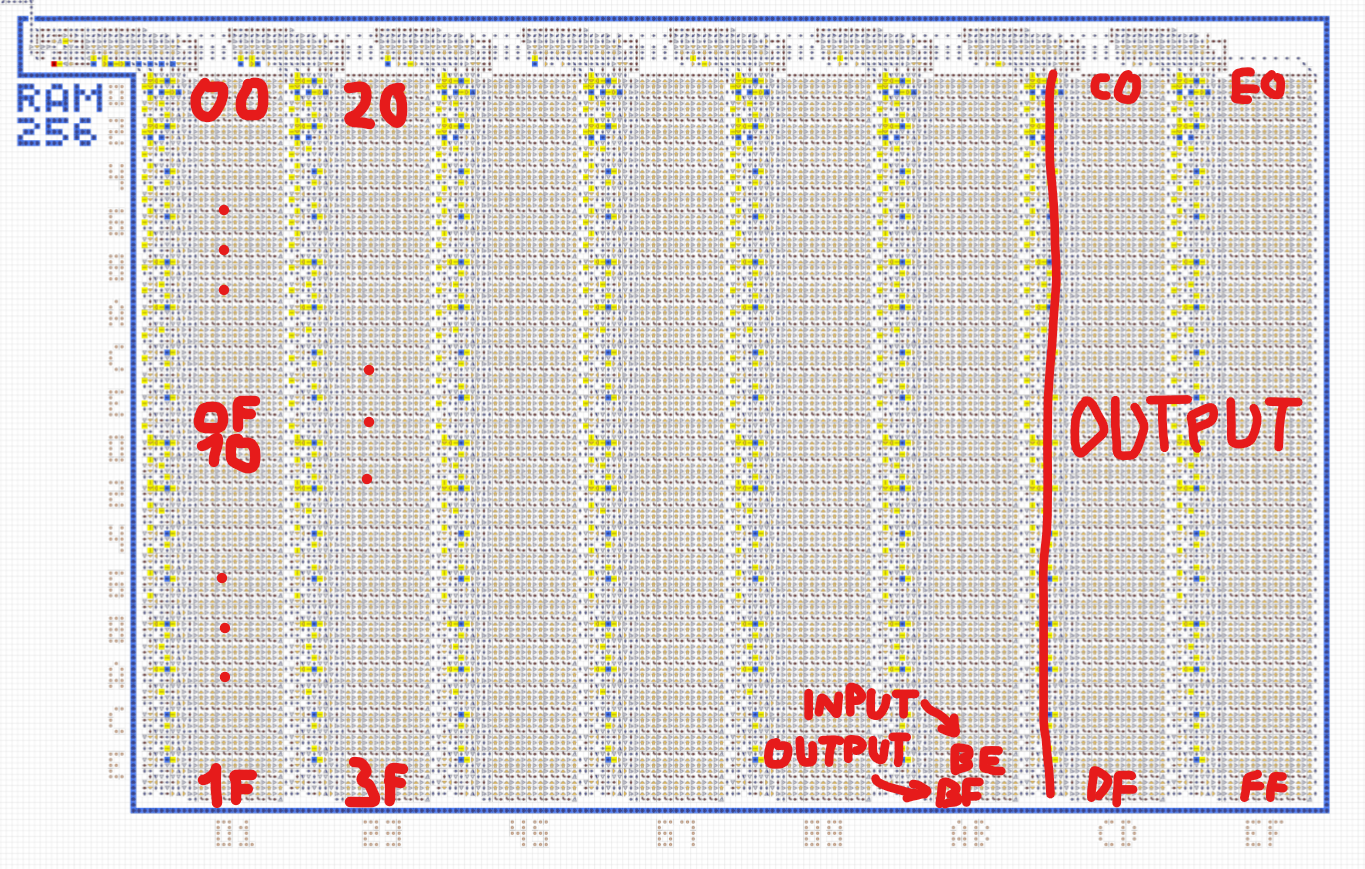
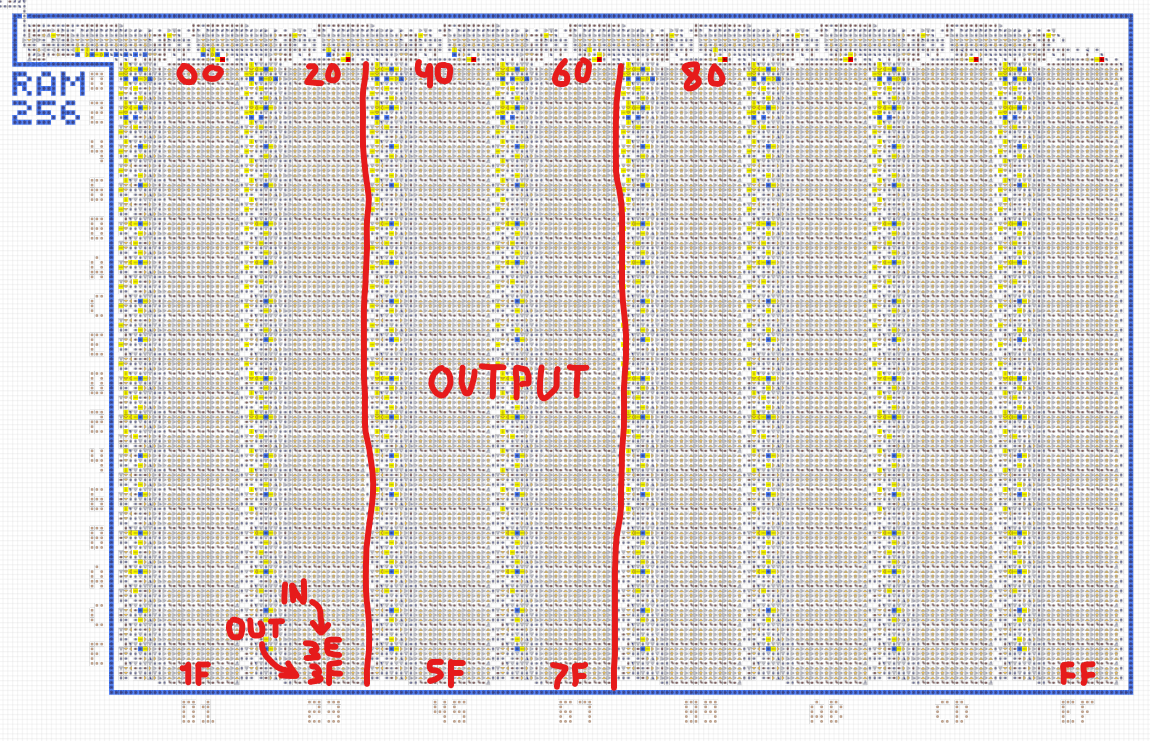
Computer: terminal & port changes

diff --git a/computer.md b/computer.md
@@ -49,31 +49,34 @@
 ## <a name="ram"></a>Оперативная память
 Единственной памятью компьютера является RAM на 256 байт. Единицей хранимой информации является 1 байт, адрес доступа к памяти также представляет собой 1 байт.
 
-Адрес `BE` подключён к системе ввода. По этому адресу всегда можно прочитать актуальную информацию, например, о нажатой клавише на клавиатуре. *(Система ввода в разработке.)*
+Адрес `3E` подключён к системе ввода. По этому адресу всегда можно прочитать актуальную информацию, например, о нажатой клавише на клавиатуре. *(Система ввода в разработке.)*
 
-Адрес `BF` подключён к управлению выводом. К примеру, если записать по этому адресу байт `80`, то вывод переключится на пиксельный дисплей.
+Адрес `3F` подключён к управлению выводом. К примеру, если записать по этому адресу байт `80`, то вывод переключится на пиксельный дисплей.
 
-Адреса `С0...FF` являются совмещённой видеопамятью. Запись по этим адресам может параллельно воздействовать на текущее средство вывода, в зависимости от его типа.
+Адреса `40...7F` являются совмещённой видеопамятью. Запись по этим адресам может параллельно воздействовать на текущее средство вывода, в зависимости от его типа.
 
 ![Оперативная память](img/computer-ram.png)
 <br><br><br>
 
 
 ## <a name="input"></a>Система ввода
-Представлена клавиатурой, где у каждой клавиши есть уникальный код. При нажатии на любую клавишу, её код попадает в RAM по адресу `BE`, откуда он в любой момент может быть прочитан программой. Если необходимо определить повторное нажатие на одну и ту же клавишу, то после определения первого нажатия программе следует самостоятельно в RAM сбросить значение адреса `BE`.
+Представлена клавиатурой, где у каждой клавиши есть уникальный код. При нажатии на любую клавишу, её код попадает в RAM по адресу `3E`, откуда он в любой момент может быть прочитан программой. Если необходимо определить повторное нажатие на одну и ту же клавишу, то после определения первого нажатия программе следует самостоятельно в RAM сбросить значение адреса `3E`.
 <br><br><br>
 
 
 ## <a name="output"></a>Система вывода
 
 ### Пиксельный дисплей
-Для переключения вывода на пиксельный дисплей необходимо в RAM по адресу `BF` записать байт `80`. Ниже показано адресное пространство дисплея. Запись в RAM по адресу из этого пространства будет приводить к появлению на дисплее пикселей, соответствующих записанным битам.
+Для переключения вывода на пиксельный дисплей необходимо в RAM по адресу `3F` записать байт `80`. Ниже показано адресное пространство дисплея. Запись в RAM по адресу из этого пространства будет приводить к появлению на дисплее пикселей, соответствующих записанным битам.
 
 ![Пиксельный дисплей](img/computer-display.png)
 <br>
 
-### Другие средства вывода
-*В разработке.*
+### Терминал
+Для переключения вывода на терминал необходимо в RAM по адресу `3F` записать байт `40`. Далее, каждый байт, записанный в RAM по адресу `40`, будет выводиться на терминал в виде символа в кодировке [cp1251](https://ru.wikipedia.org/wiki/Windows-1251), сдигая все предыдущие символы влево.
+
+![Пиксельный дисплей](img/computer-terminal.png)
+<br>
 <br><br><br>
 
 

diff --git a/computer-examples.md b/computer-examples.md
@@ -3,13 +3,13 @@
 # Примеры готовых программ
 
 ## Hello world
-Программа выводит на пиксельный дисплей котика и надпись «Hello world».
+Выводит на пиксельный дисплей котика и надпись «Hello world».
 ```asm
 ldi a, 0x80         ; выбираем режим для вывода
-st a, 0xBF          ; подключаем дисплей
+st a, 0x3F          ; подключаем дисплей
 ldi b, imagesize    ; счётчик, по которому программа завершится
 ldi c, image        ; указатель на начало картинки в памяти
-ldi d, 0xC0         ; указатель на начало области дисплея
+ldi d, 0x40         ; указатель на начало области дисплея
 loop:               ; цикл копирования картинки на дисплей
     ld a, c             ; читаем один байт картинки
     st a, d             ; выводим байт картинки на дисплей
@@ -42,12 +42,12 @@ imagesize equ $ - image          ; размер картинки
 <br><br>
 
 ## Поиск простых чисел
-Программа находит первые 16 простых чисел и выводит их на пиксельный дисплей в двоичном формате. Выполнение занимает 3691 операцию.
+Находит первые 16 простых чисел и выводит их на пиксельный дисплей в двоичном формате. Выполнение занимает 3691 операцию.
 ```asm
 ldi a, 0x80     ; выбираем режим для вывода
-st a, 0xBF      ; подключаем дисплей
+st a, 0x3F      ; подключаем дисплей
 ldi b, 0x02     ; первое простое число 2
-ldi d, 0xC1     ; адрес на дисплее для первого числа
+ldi d, 0x41     ; адрес на дисплее для первого числа
 st b, d         ; выводим число на дисплей
 inc b           ; второе простое число 3
 inc d           ; дважды смещаем указатель на дисплей, чтобы перейти на следующий ряд
@@ -56,7 +56,7 @@ st b, d         ; выводим число на дисплей
 next:           ; цикл подбора кандидатов на простые числа
   inc b             ; дважды увеличиваем число-кандидат – идём только по нечётным числам
   inc b
-  ldi d, 0xC1       ; устанавливаем указатель на первое простое число на дисплее
+  ldi d, 0x41       ; устанавливаем указатель на первое простое число на дисплее
 test:           ; цикл подбора множителей среди уже найденных простых чисел
   inc d             ; смещаем указатель на следующее простое число на дисплее
   inc d
@@ -78,9 +78,52 @@ prime:          ; работа с найденным простым числом
   inc d
   st d, last        ; сохраняем указатель
   st b, d           ; сохраняем по указателю на дисплей новое простое число
-  ldi a, 0xDF       ; берём указатель на последнее возможное место в нижнем ряду дисплея
+  ldi a, 0x5F       ; берём указатель на последнее возможное место в нижнем ряду дисплея
   xor a, d          ; сравниваем два указателя
   jnz next          ; если они не равны, переходим к рассмотрению следующего числа-кандидата
 hlt             ; завершаем программу
-last db 0xC3    ; указатель на последнее найденное простое число на дисплее
+last db 0x43    ; указатель на последнее найденное простое число на дисплее
+```
+<br><br>
+
+## Числа Фибоначчи
+Находит первые 10 чисел Фибоначчи.
+```asm
+ldi a, 0x80
+st a, 0x3F
+inc b
+inc c
+ldi d, 0x3F
+loop:
+  inc d
+  inc d
+  mov a, b
+  add a, c
+  mov b, a
+  st a, d
+  inc d
+  inc d
+  mov a, c
+  add a, b
+  mov c, a
+  st a, d
+  ldi a, 0x53
+  xor a, d
+  jnz loop
+hlt
+```
+<br><br>
+
+## Печатная машинка
+Выводит в терминал текст, набираемый на клавиатуре.
+```asm
+ldi a, 0x40
+st a, 0x3F
+ldi b, 0x3E
+ldi c, 0x40
+loop:
+  ld a, b
+  st d, b
+  st a, c
+  jmp loop
 ```
